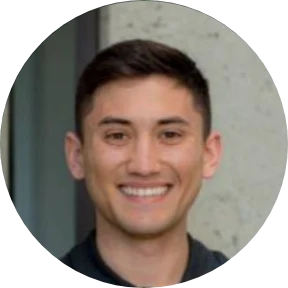
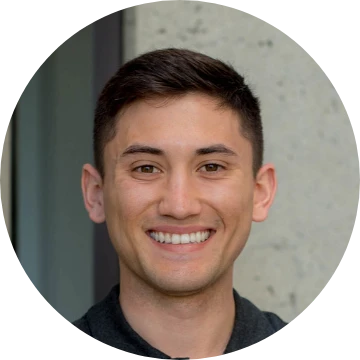
Use real photographs for Si, James, AJ and Billy
Supplied headshots replace the crops taken off the pre-seed deck slide.
They export at 300-360px against the 180px they display at, so those four
are now sharp on a retina screen where the deck crops capped at 288px.

Billy's is cropped tighter and re-centred on his face rather than
inscribed in the full frame: the source is a wide night shot, and the
full-frame circle left his head noticeably smaller than everyone else's.
At r=150 the head reads at roughly the same scale as the others with
headroom to spare, and 300px native beats upscaling a tighter crop.

Fred and Keith still come off the deck, because no separate files exist
for them -- the slide is flattened, so there is nothing else to extract.
Theirs stay at 288px and are a touch softer. The markup comment above the
grid now says which portraits came from where and that those two want
replacing, so the next person does not rediscover it.

diff --git a/about.html b/about.html
@@ -60,20 +60,23 @@
 
         <section class="about-team" aria-labelledby="our-team">
           <h2 id="our-team">Our team</h2>
-          <!-- Portraits are cropped from the team slide of the pre-seed deck,
-               which is where the only copies live. Achille is on that slide too,
-               but under "Advisor" rather than the team block, so he is not here. -->
+          <!-- Si, James, AJ and Billy are cropped from supplied photographs.
+               Fred and Keith are still cropped out of the pre-seed deck's team
+               slide, which is flattened, so theirs cap at 288px and are a touch
+               softer than the rest; replace them when real files turn up.
+               Achille is on that slide too, but under "Advisor" rather than the
+               team block, so he is not here. -->
           <ul class="team-grid">
             <li class="team-member">
               <img class="team-photo" src="assets/team/fred.webp" width="288" height="288" loading="lazy" decoding="async" alt="">
               <p class="team-name">Fred Stevens&#8209;Smith</p>
             </li>
             <li class="team-member">
-              <img class="team-photo" src="assets/team/si.webp" width="288" height="288" loading="lazy" decoding="async" alt="">
+              <img class="team-photo" src="assets/team/si.webp" width="360" height="360" loading="lazy" decoding="async" alt="">
               <p class="team-name">Si Stephens&#8209;Manassiev</p>
             </li>
             <li class="team-member">
-              <img class="team-photo" src="assets/team/james.webp" width="288" height="288" loading="lazy" decoding="async" alt="">
+              <img class="team-photo" src="assets/team/james.webp" width="360" height="360" loading="lazy" decoding="async" alt="">
               <p class="team-name">James Palmer</p>
             </li>
             <li class="team-member">
@@ -81,11 +84,11 @@
               <p class="team-name">Keith Johnson</p>
             </li>
             <li class="team-member">
-              <img class="team-photo" src="assets/team/aj.webp" width="288" height="288" loading="lazy" decoding="async" alt="">
+              <img class="team-photo" src="assets/team/aj.webp" width="360" height="360" loading="lazy" decoding="async" alt="">
               <p class="team-name">AJ Funk</p>
             </li>
             <li class="team-member">
-              <img class="team-photo" src="assets/team/billy.webp" width="288" height="288" loading="lazy" decoding="async" alt="">
+              <img class="team-photo" src="assets/team/billy.webp" width="300" height="300" loading="lazy" decoding="async" alt="">
               <p class="team-name">Billy Goudy</p>
             </li>
           </ul>

diff --git a/README.md b/README.md
@@ -10,7 +10,9 @@ Static landing-page wireframe for Grand.
 
   The team section (heading: “Our team”) is Fred Stevens-Smith, Si Stephens-Manassiev, James Palmer, Keith Johnson, AJ Funk, and Billy Goudy — name and photo only, no roles or bios, in the order they appear on the deck. **Achille is deliberately not here:** he is on the same deck slide but under “Advisor” rather than the team block. That omission was explicit, so it gets its own assertion rather than relying on nobody re-adding him.
 
-  **Where the portraits came from:** page 11 of the pre-seed deck, which is the only place they exist. That slide is flattened to a single 3840×2160 JPEG, so there are no separate headshot files to extract — everything outside each circular crop is slide background, not photograph. The six were cropped out of it and circularly masked to PNG alpha (via `browse`'s canvas path), then written as WebP: 288×288 each, 80KB for all six. **The portraits are circular on the page because the source is circular** — a square crop would carry the deck's dark green into the corners. **They cap at 288px**, which is all the slide has; displayed at 180px that is 1.6×, short of true retina. If anyone wants crisper, it needs the original headshot files, not a better crop.
+  **Where the portraits came from:** Si, James, AJ and Billy are cropped from supplied photographs and export at 300–360px, which is 2× the 180px they display at. Fred and Keith still come off page 11 of the pre-seed deck, because no separate files exist for them: that slide is flattened to a single 3840×2160 JPEG, so everything outside each circular crop is slide background rather than photograph, and theirs cap at 288px — a touch softer than the other four on a retina screen. **Replace those two when real files turn up**; the markup comment above the grid says so, so the next person does not have to rediscover why two of the six are different.
+
+  **The portraits are circular because the two deck crops are circular** — a square crop of those would carry the deck's dark green into the corners. Every portrait is masked to transparent corners at export rather than relying on `border-radius` alone, so nothing leaks if that rule ever changes. All six total 100KB.
 
   The grid uses fixed column counts (6 / 3 / 2 at desktop / tablet / phone) rather than `auto-fit`. **Why:** `auto-fit` lands on four columns at tablet width, which leaves a two-card orphan row; 6, 3, and 2 all divide six evenly. **Names are 16px, not the 18px a standalone label would take:** at six across the column is about 170px, and “Stephens-Manassiev” needs every pixel of that to stay on one line. The two double-barrelled surnames carry a non-breaking hyphen (`&#8209;`, the same entity the legal pages use for “sign-up”) so a name that does wrap breaks at the space before the surname rather than inside it — which is what happened at 1101px before the fix. Portraits carry `alt=""` because the name is already adjacent as text, so a descriptive alt would just make a screen reader say each name twice.
 
